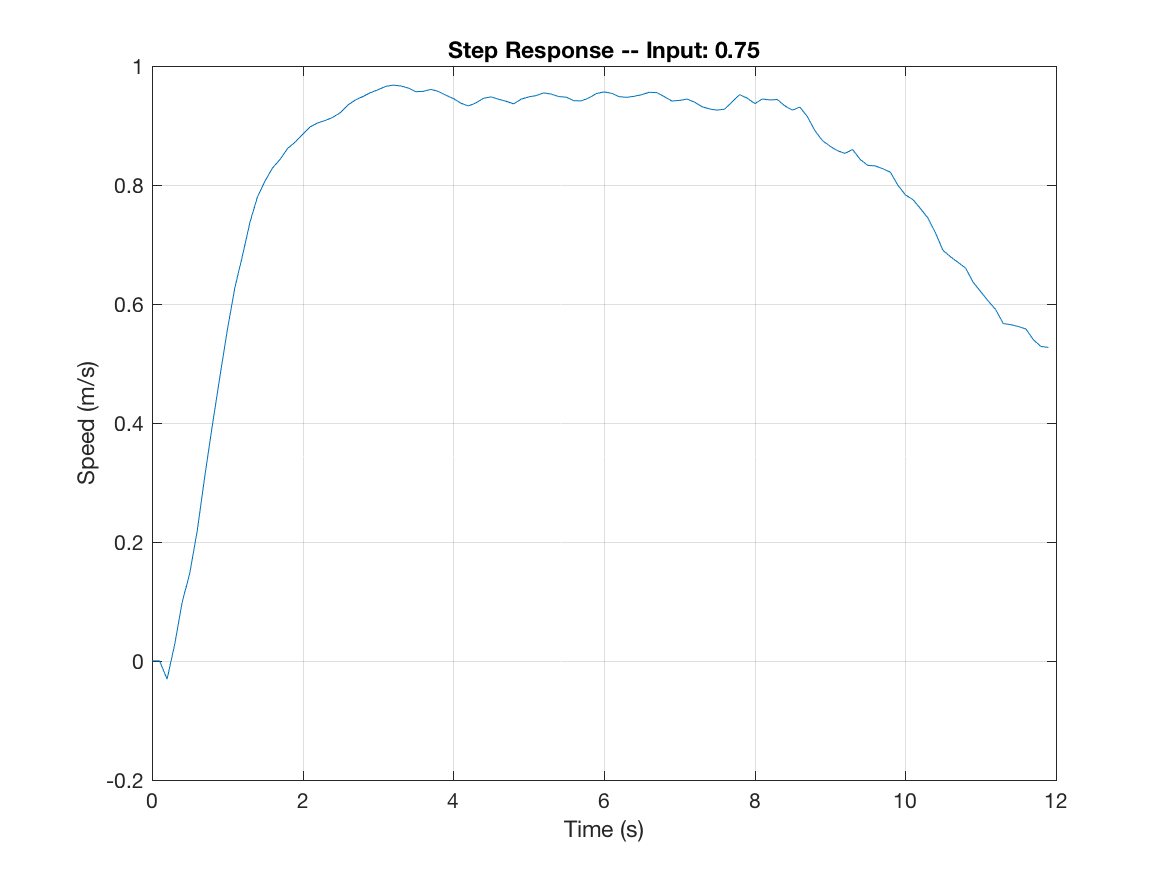
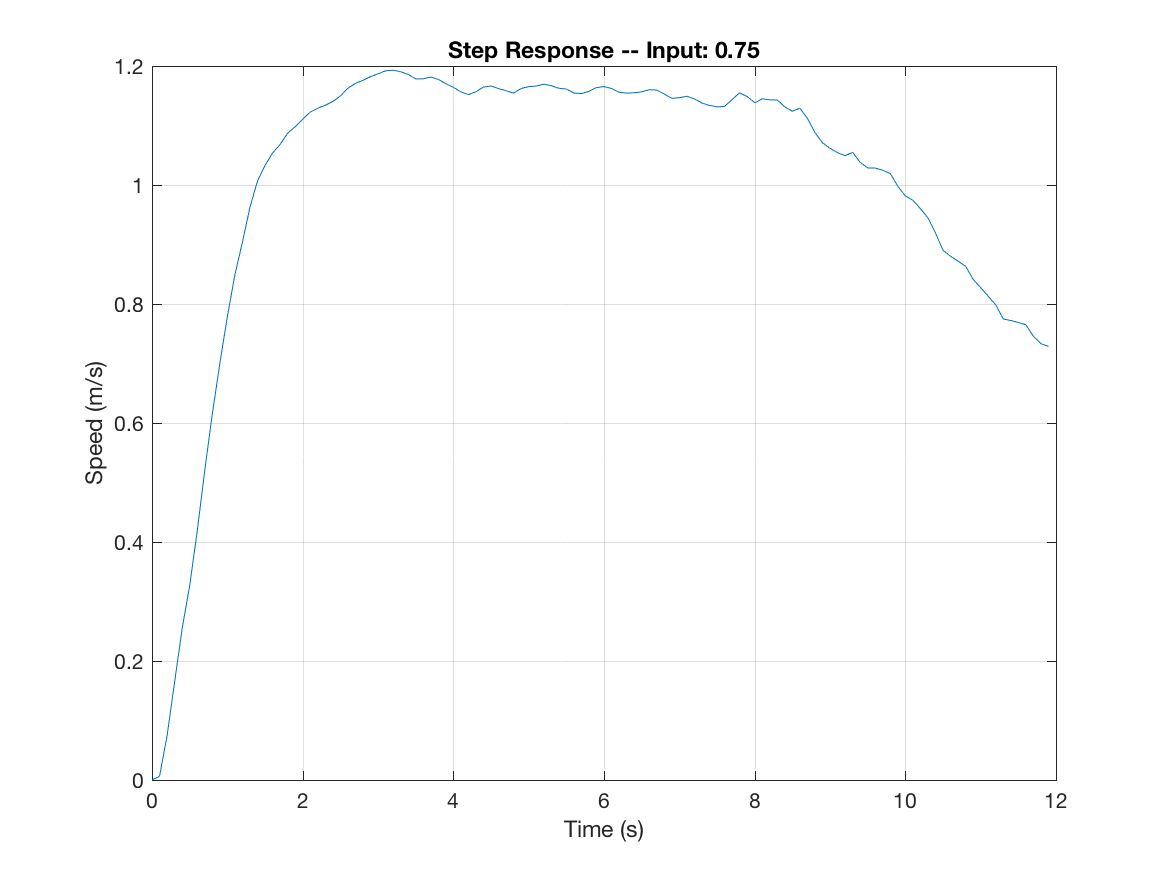
updated plots

diff --git a/data/step_test-02-10-2017/plot_ekf_data.m b/data/step_test-02-10-2017/plot_ekf_data.m
@@ -14,7 +14,6 @@ vy = v(:,2);
 vz = v(:,3);
 
 s = sqrt(vx.^2+vy.^2+vz.^2);
-s_2d = sqrt(vx.^2+vy.^2);
 
 in_raw = importdata(input_filename);
 if ~all(size(in_raw.data) == [2,2])
@@ -31,9 +30,16 @@ t_step = t(ind);
 t0 = t_step(1);
 t_step = t_step - t0;
 
-s_2d_step = s_2d(ind);
-s0 = s_2d_step(1);
-s_2d_step = s_2d_step - s0;
+
+vx_step = vx(ind);
+vx_step = vx_step - vx_step(1);
+vy_step = vy(ind);
+vy_step = vy_step - vy_step(1);
+vz_step = vz(ind);
+vz_step = vz_step - vz_step(1);
+
+s_2d_step = sqrt(vx_step.^2 + vy_step.^2);
+s_step = sqrt(vx_step.^2 + vy_step.^2 + vz_step.^2);
 
 figure
 plot(t_step,s_2d_step)
